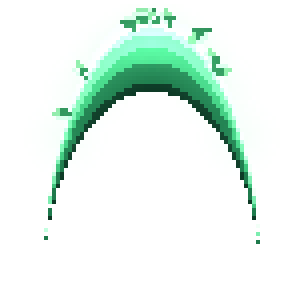
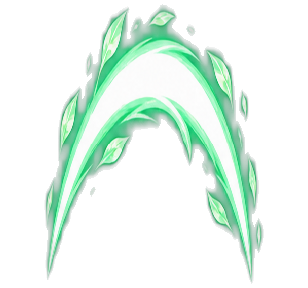
Arc de la dague : retour a l'effet d'origine (preference de l'utilisateur) ; le feu de camp pixelfx reste

Changed region(s): [[0.1461, 0.0, 0.8766, 0.9688]]

diff --git a/src/data/pixel_fixed.js b/src/data/pixel_fixed.js
@@ -3,51 +3,6 @@
 // BootScene les affiche sans lissage (NEAREST) ; import_codex_assets.py ne
 // les réécrit pas. `f` : px de l'image = 1 pixel dessiné ; `set` : le lot.
 const PIXEL_FIXED = {
-  "assets/vfx/vfx_slash_frames/vfx_slash_row0_0.png": {"f":4,"set":"pixelfx:vfx_slash"},
-  "assets/vfx/vfx_slash_frames/vfx_slash_row0_1.png": {"f":4,"set":"pixelfx:vfx_slash"},
-  "assets/vfx/vfx_slash_frames/vfx_slash_row0_2.png": {"f":4,"set":"pixelfx:vfx_slash"},
-  "assets/vfx/vfx_slash_frames/vfx_slash_row1_0.png": {"f":4,"set":"pixelfx:vfx_slash"},
-  "assets/vfx/vfx_slash_frames/vfx_slash_row1_1.png": {"f":4,"set":"pixelfx:vfx_slash"},
-  "assets/vfx/vfx_slash_frames/vfx_slash_row1_2.png": {"f":4,"set":"pixelfx:vfx_slash"},
-  "assets/vfx/vfx_slash_frames/vfx_slash_row2_0.png": {"f":4,"set":"pixelfx:vfx_slash"},
-  "assets/vfx/vfx_slash_frames/vfx_slash_row2_1.png": {"f":4,"set":"pixelfx:vfx_slash"},
-  "assets/vfx/vfx_slash_frames/vfx_slash_row2_2.png": {"f":4,"set":"pixelfx:vfx_slash"},
-  "assets/items/feu_de_camp_frames/feu_0.png": {"f":10,"set":"pixelfx:feu_de_camp"},
-  "assets/items/feu_de_camp_frames/feu_1.png": {"f":10,"set":"pixelfx:feu_de_camp"},
-  "assets/items/feu_de_camp_frames/feu_10.png": {"f":10,"set":"pixelfx:feu_de_camp"},
-  "assets/items/feu_de_camp_frames/feu_11.png": {"f":10,"set":"pixelfx:feu_de_camp"},
-  "assets/items/feu_de_camp_frames/feu_12.png": {"f":10,"set":"pixelfx:feu_de_camp"},
-  "assets/items/feu_de_camp_frames/feu_13.png": {"f":10,"set":"pixelfx:feu_de_camp"},
-  "assets/items/feu_de_camp_frames/feu_14.png": {"f":10,"set":"pixelfx:feu_de_camp"},
-  "assets/items/feu_de_camp_frames/feu_15.png": {"f":10,"set":"pixelfx:feu_de_camp"},
-  "assets/items/feu_de_camp_frames/feu_16.png": {"f":10,"set":"pixelfx:feu_de_camp"},
-  "assets/items/feu_de_camp_frames/feu_17.png": {"f":10,"set":"pixelfx:feu_de_camp"},
-  "assets/items/feu_de_camp_frames/feu_18.png": {"f":10,"set":"pixelfx:feu_de_camp"},
-  "assets/items/feu_de_camp_frames/feu_19.png": {"f":10,"set":"pixelfx:feu_de_camp"},
-  "assets/items/feu_de_camp_frames/feu_2.png": {"f":10,"set":"pixelfx:feu_de_camp"},
-  "assets/items/feu_de_camp_frames/feu_20.png": {"f":10,"set":"pixelfx:feu_de_camp"},
-  "assets/items/feu_de_camp_frames/feu_21.png": {"f":10,"set":"pixelfx:feu_de_camp"},
-  "assets/items/feu_de_camp_frames/feu_22.png": {"f":10,"set":"pixelfx:feu_de_camp"},
-  "assets/items/feu_de_camp_frames/feu_23.png": {"f":10,"set":"pixelfx:feu_de_camp"},
-  "assets/items/feu_de_camp_frames/feu_24.png": {"f":10,"set":"pixelfx:feu_de_camp"},
-  "assets/items/feu_de_camp_frames/feu_25.png": {"f":10,"set":"pixelfx:feu_de_camp"},
-  "assets/items/feu_de_camp_frames/feu_26.png": {"f":10,"set":"pixelfx:feu_de_camp"},
-  "assets/items/feu_de_camp_frames/feu_27.png": {"f":10,"set":"pixelfx:feu_de_camp"},
-  "assets/items/feu_de_camp_frames/feu_28.png": {"f":10,"set":"pixelfx:feu_de_camp"},
-  "assets/items/feu_de_camp_frames/feu_29.png": {"f":10,"set":"pixelfx:feu_de_camp"},
-  "assets/items/feu_de_camp_frames/feu_3.png": {"f":10,"set":"pixelfx:feu_de_camp"},
-  "assets/items/feu_de_camp_frames/feu_30.png": {"f":10,"set":"pixelfx:feu_de_camp"},
-  "assets/items/feu_de_camp_frames/feu_31.png": {"f":10,"set":"pixelfx:feu_de_camp"},
-  "assets/items/feu_de_camp_frames/feu_32.png": {"f":10,"set":"pixelfx:feu_de_camp"},
-  "assets/items/feu_de_camp_frames/feu_33.png": {"f":10,"set":"pixelfx:feu_de_camp"},
-  "assets/items/feu_de_camp_frames/feu_34.png": {"f":10,"set":"pixelfx:feu_de_camp"},
-  "assets/items/feu_de_camp_frames/feu_35.png": {"f":10,"set":"pixelfx:feu_de_camp"},
-  "assets/items/feu_de_camp_frames/feu_4.png": {"f":10,"set":"pixelfx:feu_de_camp"},
-  "assets/items/feu_de_camp_frames/feu_5.png": {"f":10,"set":"pixelfx:feu_de_camp"},
-  "assets/items/feu_de_camp_frames/feu_6.png": {"f":10,"set":"pixelfx:feu_de_camp"},
-  "assets/items/feu_de_camp_frames/feu_7.png": {"f":10,"set":"pixelfx:feu_de_camp"},
-  "assets/items/feu_de_camp_frames/feu_8.png": {"f":10,"set":"pixelfx:feu_de_camp"},
-  "assets/items/feu_de_camp_frames/feu_9.png": {"f":10,"set":"pixelfx:feu_de_camp"},
   "assets/decors/tuiles_corrompues_frames/coin.png": {"f":5.33,"set":"tiles:tuiles_corrompues"},
   "assets/decors/tuiles_corrompues_frames/dirt_angle.png": {"f":5.33,"set":"tiles:tuiles_corrompues"},
   "assets/decors/tuiles_corrompues_frames/dirt_b.png": {"f":5.33,"set":"tiles:tuiles_corrompues"},
@@ -111,6 +66,42 @@ const PIXEL_FIXED = {
   "assets/decors/tuiles_flottantes_frames/dirt_t.png": {"f":5.33,"set":"tiles:tuiles_flottantes"},
   "assets/decors/tuiles_flottantes_frames/dirt_tl.png": {"f":5.33,"set":"tiles:tuiles_flottantes"},
   "assets/decors/tuiles_flottantes_frames/dirt_tr.png": {"f":5.33,"set":"tiles:tuiles_flottantes"},
+  "assets/items/feu_de_camp_frames/feu_0.png": {"f":10,"set":"pixelfx:feu_de_camp"},
+  "assets/items/feu_de_camp_frames/feu_1.png": {"f":10,"set":"pixelfx:feu_de_camp"},
+  "assets/items/feu_de_camp_frames/feu_10.png": {"f":10,"set":"pixelfx:feu_de_camp"},
+  "assets/items/feu_de_camp_frames/feu_11.png": {"f":10,"set":"pixelfx:feu_de_camp"},
+  "assets/items/feu_de_camp_frames/feu_12.png": {"f":10,"set":"pixelfx:feu_de_camp"},
+  "assets/items/feu_de_camp_frames/feu_13.png": {"f":10,"set":"pixelfx:feu_de_camp"},
+  "assets/items/feu_de_camp_frames/feu_14.png": {"f":10,"set":"pixelfx:feu_de_camp"},
+  "assets/items/feu_de_camp_frames/feu_15.png": {"f":10,"set":"pixelfx:feu_de_camp"},
+  "assets/items/feu_de_camp_frames/feu_16.png": {"f":10,"set":"pixelfx:feu_de_camp"},
+  "assets/items/feu_de_camp_frames/feu_17.png": {"f":10,"set":"pixelfx:feu_de_camp"},
+  "assets/items/feu_de_camp_frames/feu_18.png": {"f":10,"set":"pixelfx:feu_de_camp"},
+  "assets/items/feu_de_camp_frames/feu_19.png": {"f":10,"set":"pixelfx:feu_de_camp"},
+  "assets/items/feu_de_camp_frames/feu_2.png": {"f":10,"set":"pixelfx:feu_de_camp"},
+  "assets/items/feu_de_camp_frames/feu_20.png": {"f":10,"set":"pixelfx:feu_de_camp"},
+  "assets/items/feu_de_camp_frames/feu_21.png": {"f":10,"set":"pixelfx:feu_de_camp"},
+  "assets/items/feu_de_camp_frames/feu_22.png": {"f":10,"set":"pixelfx:feu_de_camp"},
+  "assets/items/feu_de_camp_frames/feu_23.png": {"f":10,"set":"pixelfx:feu_de_camp"},
+  "assets/items/feu_de_camp_frames/feu_24.png": {"f":10,"set":"pixelfx:feu_de_camp"},
+  "assets/items/feu_de_camp_frames/feu_25.png": {"f":10,"set":"pixelfx:feu_de_camp"},
+  "assets/items/feu_de_camp_frames/feu_26.png": {"f":10,"set":"pixelfx:feu_de_camp"},
+  "assets/items/feu_de_camp_frames/feu_27.png": {"f":10,"set":"pixelfx:feu_de_camp"},
+  "assets/items/feu_de_camp_frames/feu_28.png": {"f":10,"set":"pixelfx:feu_de_camp"},
+  "assets/items/feu_de_camp_frames/feu_29.png": {"f":10,"set":"pixelfx:feu_de_camp"},
+  "assets/items/feu_de_camp_frames/feu_3.png": {"f":10,"set":"pixelfx:feu_de_camp"},
+  "assets/items/feu_de_camp_frames/feu_30.png": {"f":10,"set":"pixelfx:feu_de_camp"},
+  "assets/items/feu_de_camp_frames/feu_31.png": {"f":10,"set":"pixelfx:feu_de_camp"},
+  "assets/items/feu_de_camp_frames/feu_32.png": {"f":10,"set":"pixelfx:feu_de_camp"},
+  "assets/items/feu_de_camp_frames/feu_33.png": {"f":10,"set":"pixelfx:feu_de_camp"},
+  "assets/items/feu_de_camp_frames/feu_34.png": {"f":10,"set":"pixelfx:feu_de_camp"},
+  "assets/items/feu_de_camp_frames/feu_35.png": {"f":10,"set":"pixelfx:feu_de_camp"},
+  "assets/items/feu_de_camp_frames/feu_4.png": {"f":10,"set":"pixelfx:feu_de_camp"},
+  "assets/items/feu_de_camp_frames/feu_5.png": {"f":10,"set":"pixelfx:feu_de_camp"},
+  "assets/items/feu_de_camp_frames/feu_6.png": {"f":10,"set":"pixelfx:feu_de_camp"},
+  "assets/items/feu_de_camp_frames/feu_7.png": {"f":10,"set":"pixelfx:feu_de_camp"},
+  "assets/items/feu_de_camp_frames/feu_8.png": {"f":10,"set":"pixelfx:feu_de_camp"},
+  "assets/items/feu_de_camp_frames/feu_9.png": {"f":10,"set":"pixelfx:feu_de_camp"},
   "assets/sprites/agarica_attack_frames/agarica_attack_0.png": {"f":4.42,"set":"agarica:attaque"},
   "assets/sprites/agarica_attack_frames/agarica_attack_1.png": {"f":4.42,"set":"agarica:attaque"},
   "assets/sprites/agarica_attack_frames/agarica_attack_2.png": {"f":4.42,"set":"agarica:attaque"},
